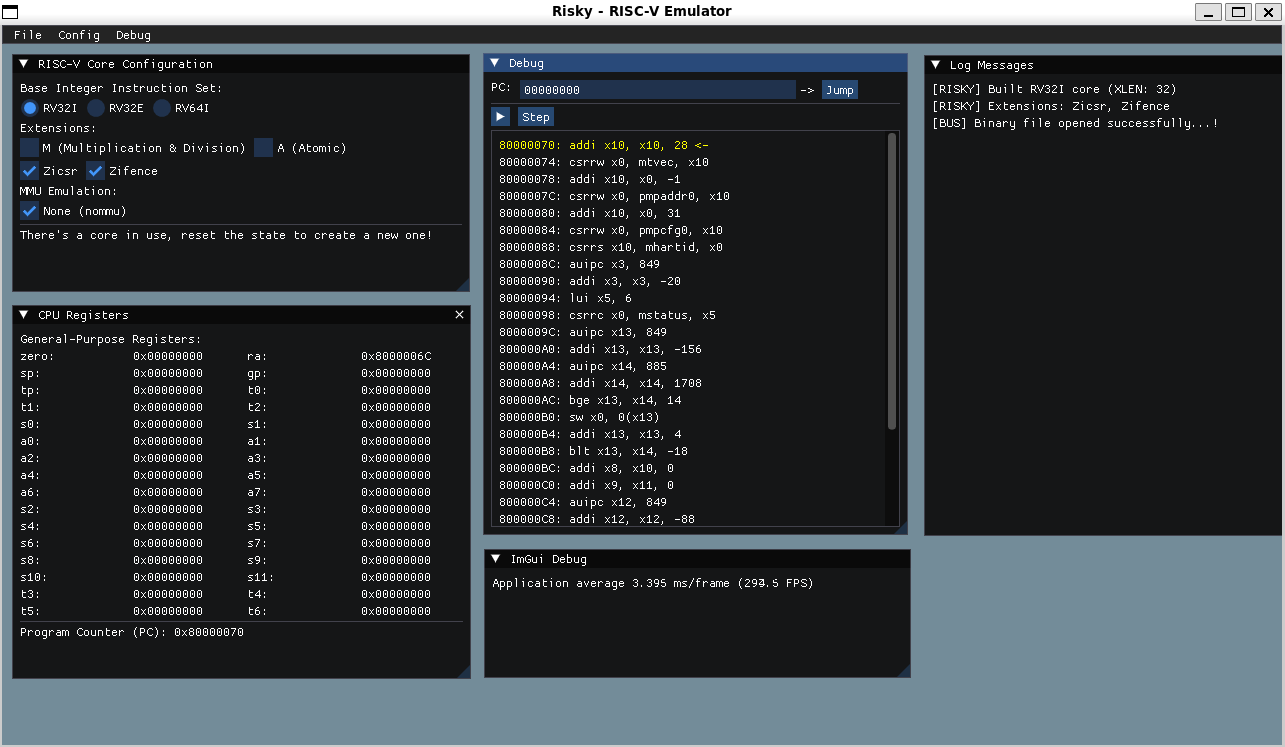
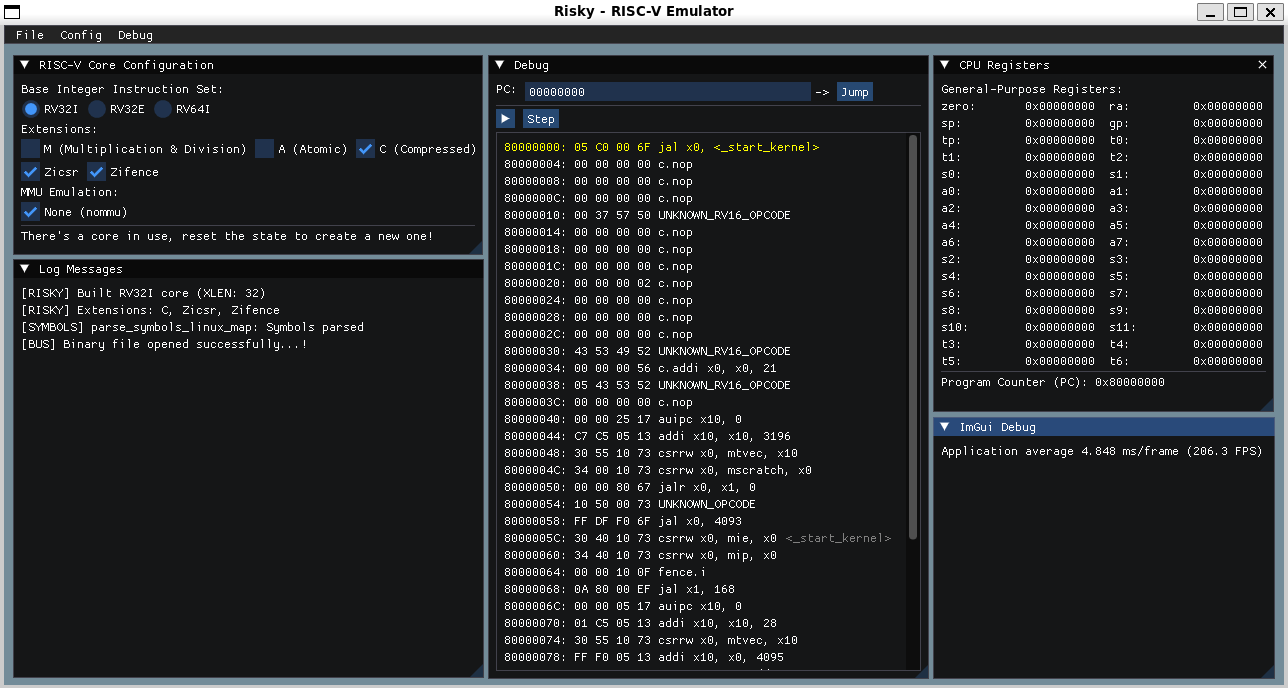
risky/imgui: Add System.map symbol reading support and append symbol names to branch/jump targets in debugger

diff --git a/frontend/imgui/imgui_risky.cpp b/frontend/imgui/imgui_risky.cpp
@@ -120,6 +120,7 @@ void ImGui_Risky::run() {
     bool core_empty_alert = false;
     bool core_invalid_alert = false;
     bool loaded_binary = false;
+    bool symbols_loaded = false;
 
 #ifdef __EMSCRIPTEN__
 	// For an Emscripten build we are disabling file-system access, so let's not attempt to do a fopen() of the imgui.ini file.
@@ -190,9 +191,17 @@ void ImGui_Risky::run() {
                         }
                         else
                         {
-                            ImGuiFileDialog::Instance()->OpenDialog("ChooseFileDlgKey", "Choose File", ".bin", config);
+                            ImGuiFileDialog::Instance()->OpenDialog("BinaryLoadDlg", "Choose File", ".bin", config);
                         }
                     }
+
+                    if (ImGui::MenuItem("Load Symbol File")) {
+                        if (!symbols_loaded)
+                        {
+                            ImGuiFileDialog::Instance()->OpenDialog("SymbolsLoadDlg", "Choose File", ".map", config);
+                        }
+                    }
+
                     ImGui::EndMenu();
                 }
             }
@@ -440,38 +449,86 @@ void ImGui_Risky::run() {
                              (opcode >> 8) & 0xFF,
                              (opcode >> 0) & 0xFF);
 
-					// Highlight the current instruction
-					bool isCurrentInstruction;
+                    // Check if it's a jump instruction (e.g., jal, jalr)
+                    bool isJumpInstruction = (disassembly.find("jal") != std::string::npos || disassembly.find("jalr") != std::string::npos);
 
-					if (core_.contains("RV32I"))
-					{
-						isCurrentInstruction = (currentPC == riscv_core_32->pc);
-					}
-					else if (core_.contains("RV32E"))
-					{
-						isCurrentInstruction = (currentPC == riscv_core_32e->pc);
-					}
-					else if (core_.contains("RV64I"))
-					{
-						isCurrentInstruction = (currentPC == riscv_core_64->pc);
-					}
+                    // Highlight the current instruction
+                    bool isCurrentInstruction = false;
+                    if (core_.contains("RV32I")) {
+                        isCurrentInstruction = (currentPC == riscv_core_32->pc);
+                    } else if (core_.contains("RV32E")) {
+                        isCurrentInstruction = (currentPC == riscv_core_32e->pc);
+                    } else if (core_.contains("RV64I")) {
+                        isCurrentInstruction = (currentPC == riscv_core_64->pc);
+                    }
 
-					if (isCurrentInstruction) {
-						ImGui::PushStyleColor(ImGuiCol_Text,
-						                      ImVec4(1.0f, 1.0f, 0.0f, 1.0f)); // Yellow text color
-					}
+                    if (isCurrentInstruction) {
+                        ImGui::PushStyleColor(ImGuiCol_Text, ImVec4(1.0f, 1.0f, 0.0f, 1.0f)); // Yellow text color
+                    }
 
-                    ImGui::PushStyleColor(ImGuiCol_Text, ImVec4(0.5f, 0.5f, 0.5f, 1.0f));
-                    ImGui::Text("%08X: %s ", currentPC, opcodeBuffer);
-                    ImGui::PopStyleColor();
+                    // Display the instruction with appropriate formatting
+                    if (isJumpInstruction) {
+                        std::istringstream iss(disassembly);
+                        std::string opcode;
+                        std::string rd;
+                        std::string rs;
+                        std::string immediate;
 
-                    ImGui::SameLine();
-                    ImGui::Text("%s%s", disassembly.c_str(), (isCurrentInstruction) ? " <-" : "");
+                        iss >> opcode;
 
-					// Reset text color if it was changed for highlighting
-					if (isCurrentInstruction) {
-						ImGui::PopStyleColor();
-					}
+                        if (opcode == "jal") {
+                            iss >> rd >> immediate;
+                            rd.erase(std::remove(rd.begin(), rd.end(), ','), rd.end());
+                        } else if (opcode == "jalr") {
+                            iss >> rd >> rs >> immediate;
+                            rd.erase(std::remove(rd.begin(), rd.end(), ','), rd.end());
+                            rs.erase(std::remove(rs.begin(), rs.end(), ','), rs.end());
+                        }
+
+                        std::uint32_t jumpOffset;
+                        try {
+                            jumpOffset = std::stoul(immediate);
+                        } catch (const std::invalid_argument& e) {
+                            Logger::Instance().Error("[DEBUGGER] Invalid jump offset!");
+                            Risky::exit();
+                        }
+
+                        std::uint32_t jumpAddress = currentPC + jumpOffset;
+
+                        auto jumpSymbol = symbols.find(jumpAddress);
+                        if (jumpSymbol != symbols.end()) {
+                            if (opcode == "jal")
+                            {
+                                ImGui::Text("%08X: %s %s %s, <%s>", currentPC, opcodeBuffer, opcode.c_str(), rd.c_str(), jumpSymbol->second.name.c_str());
+                            }
+                            else if (opcode == "jalr")
+                            {
+                                ImGui::Text("%08X: %s %s %s, %s, <%s>", currentPC, opcodeBuffer, opcode.c_str(), rd.c_str(), rs.c_str(), jumpSymbol->second.name.c_str());
+                            }
+                            else
+                            {
+                                ImGui::Text("%08X: %s %s %s, %s, <%s>", currentPC, opcodeBuffer, opcode.c_str(), rd.c_str(), rs.c_str(), jumpSymbol->second.name.c_str());
+                            }
+
+                        } else {
+                            ImGui::Text("%08X: %s %s %s", currentPC, opcodeBuffer, disassembly.c_str(), (isCurrentInstruction) ? " <-" : "");
+                        }
+                    } else {
+                        ImGui::Text("%08X: %s %s", currentPC, opcodeBuffer, disassembly.c_str());
+
+                        auto it = symbols.find(currentPC);
+                        if (it != symbols.end()) {
+                            ImGui::SameLine();
+                            ImGui::PushStyleColor(ImGuiCol_Text, ImVec4(0.5f, 0.5f, 0.5f, 1.0f)); // Gray text color for symbols
+                            ImGui::Text("<%s>", it->second.name.c_str());
+                            ImGui::PopStyleColor();
+                        }
+                    }
+
+                    // Reset text color if it was changed for highlighting
+                    if (isCurrentInstruction) {
+                        ImGui::PopStyleColor();
+                    }
 
 					// Update the current PC for the next instruction
 					currentPC += 4;
@@ -663,7 +720,19 @@ void ImGui_Risky::run() {
 			ImGui::End();
 		}
 
-		if (ImGuiFileDialog::Instance()->Display("ChooseFileDlgKey")) {
+        if (ImGuiFileDialog::Instance()->Display("SymbolsLoadDlg")) {
+            if (ImGuiFileDialog::Instance()->IsOk()) {
+                std::string filePathName = ImGuiFileDialog::Instance()->GetFilePathName();
+                std::string filePath = ImGuiFileDialog::Instance()->GetCurrentPath();
+
+                symbols = parse_symbols_linux_map(filePathName);
+                symbols_loaded = true;
+            }
+
+            ImGuiFileDialog::Instance()->Close();
+        }
+
+		if (ImGuiFileDialog::Instance()->Display("BinaryLoadDlg")) {
 			if (ImGuiFileDialog::Instance()->IsOk()) {
 				std::string filePathName = ImGuiFileDialog::Instance()->GetFilePathName();
 				std::string filePath = ImGuiFileDialog::Instance()->GetCurrentPath();

diff --git a/src/utils/symbols.cpp b/src/utils/symbols.cpp
@@ -1,0 +1,31 @@
+#include <fstream>
+#include <sstream>
+#include <log/log.h>
+#include <utils/symbols.h>
+
+std::unordered_map<std::uint32_t, Symbol> parse_symbols_linux_map(const std::string& filename) {
+    std::unordered_map<std::uint32_t, Symbol> symbols;
+    std::ifstream file(filename);
+
+    if (!file.is_open()) {
+        Logger::Instance().Error("[SYMBOLS] parse_symbols_linux_map: Failed to open " + filename);
+        Risky::exit();
+    }
+
+    std::string line;
+    while (std::getline(file, line)) {
+        std::istringstream iss(line);
+        std::uint32_t address;
+        std::string type;
+        std::string name;
+
+        if (!(iss >> std::hex >> address >> type >> name)) {
+            continue;
+        }
+
+        symbols[address] = { address, type, name };
+    }
+
+    Logger::Instance().Log("[SYMBOLS] parse_symbols_linux_map: Symbols parsed");
+    return symbols;
+}

diff --git a/include/frontend/imgui/imgui_risky.h b/include/frontend/imgui/imgui_risky.h
@@ -5,6 +5,7 @@
 #include <cpu/core/rv32i.h>
 #include <cpu/core/rv32e.h>
 #include <cpu/core/rv64i.h>
+#include <utils/symbols.h>
 #include <memory>
 
 class ImGui_Risky : public Risky {
@@ -16,4 +17,6 @@ private:
 	std::unique_ptr<RV32I> riscv_core_32;
     std::unique_ptr<RV32E> riscv_core_32e;
 	std::unique_ptr<RV64I> riscv_core_64;
+
+    std::unordered_map<std::uint32_t, Symbol> symbols;
 };

diff --git a/include/utils/symbols.h b/include/utils/symbols.h
@@ -1,0 +1,13 @@
+#pragma once
+
+#include <cstdint>
+#include <string>
+#include <unordered_map>
+
+struct Symbol {
+    std::uint32_t address;
+    std::string type;
+    std::string name;
+};
+
+std::unordered_map<std::uint32_t, Symbol> parse_symbols_linux_map(const std::string& filename);
